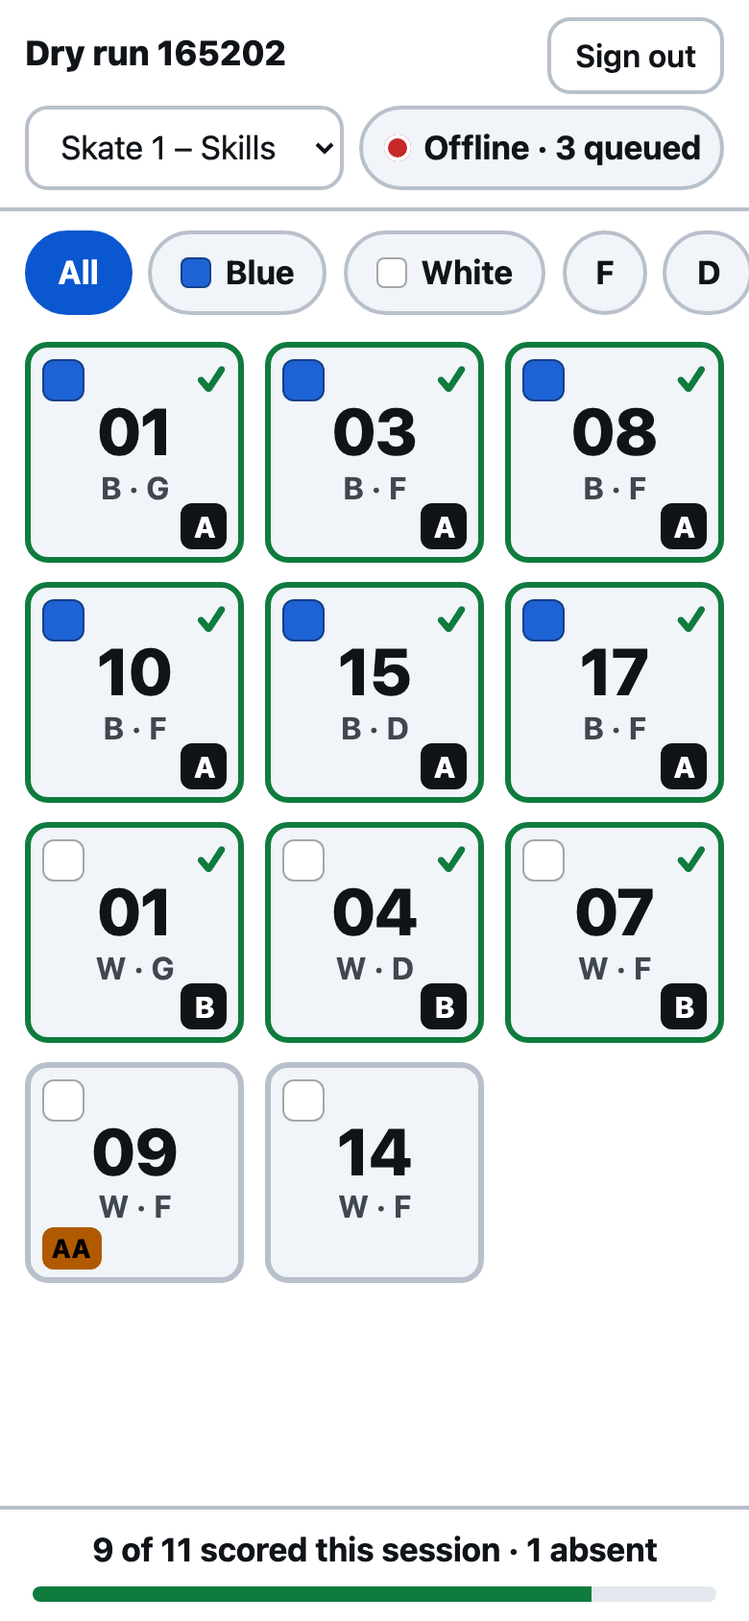
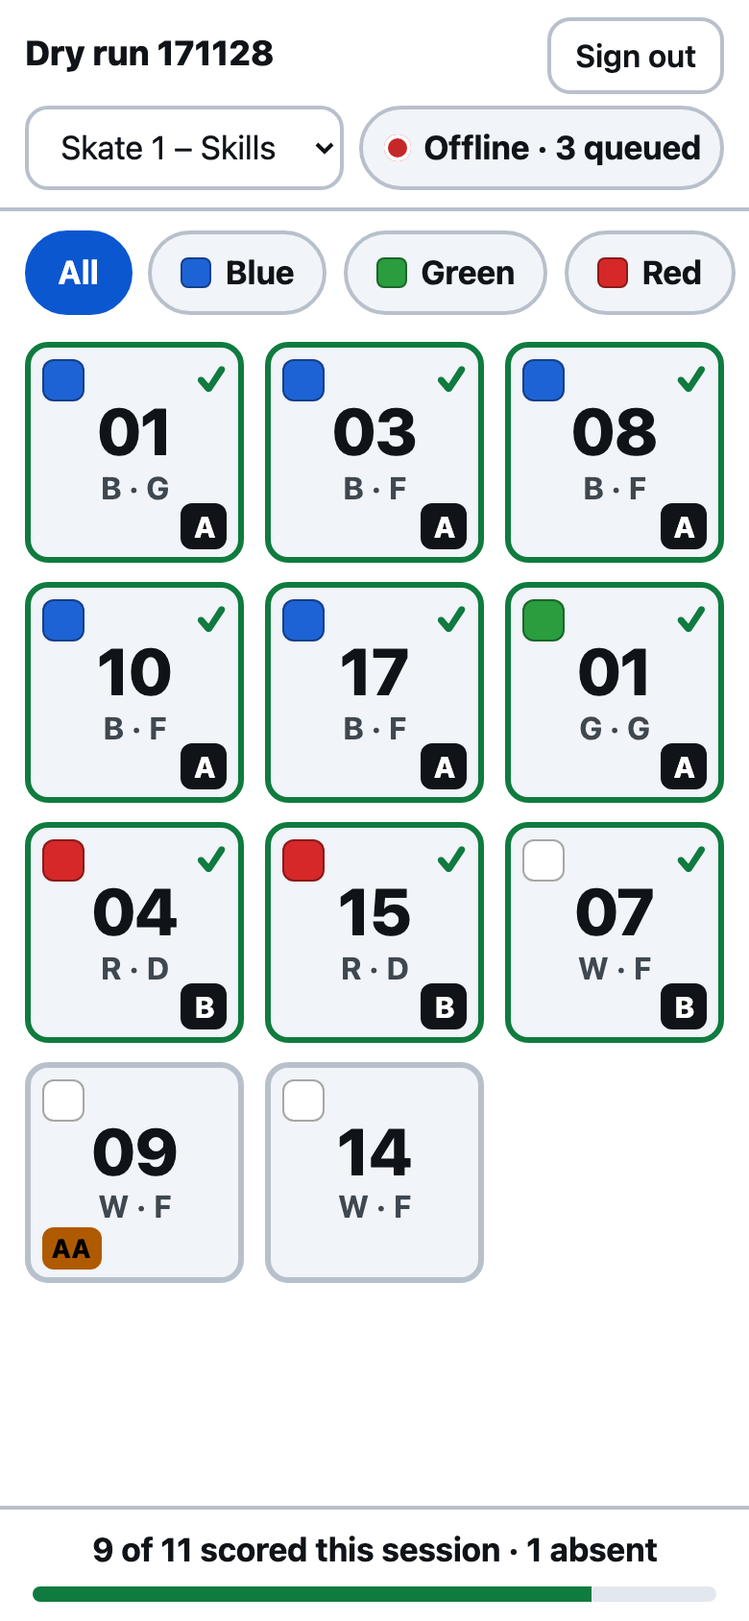
Per-player jersey colours per session
- Session.colours ({ playerNumber: colour }) with setSessionColours (whole-map
  replace, validated keys/values); overrides win over the session's
  primary/secondary default in wornColour()
- Attendance section becomes Attendance & jerseys: colour dropdown per player,
  bulk set by position or everyone, Reset to default, duplicate-code warning,
  summary shows how many colours are set
- Dry run: defence set to Red and one goalie to Green in skills; evaluator grid
  and filter chips follow; 52 unit tests; resolver validated on APPSYNC_JS

diff --git a/web/js/admin.js b/web/js/admin.js
@@ -1,7 +1,7 @@
 // Convenor dashboard: setup, rankings, per-evaluator view, CSV export, close.
 // Everything here is by player number only. There is no name field anywhere and no place to type one.
 import { requireAuth, signOut } from "./auth.js";
-import { gql, fetchAllEvaluations, registerServiceWorker, Q_CURRENT_TRYOUT_ADMIN, normalizeTryout, swatchColour, wornCode, isAbsent, AuthError } from "./api.js";
+import { gql, fetchAllEvaluations, registerServiceWorker, Q_CURRENT_TRYOUT_ADMIN, normalizeTryout, swatchColour, wornCode, wornColour, isAbsent, AuthError } from "./api.js";
 import { CRITERIA, TIERS, criteriaFor, weightedScore, NOTES_MAX } from "./criteria.js";
 
 registerServiceWorker();
@@ -184,6 +184,7 @@ function renderSetup() {
     typeSel.addEventListener("change", () => updateSession(s, { type: typeSel.value }));
     sb.append(el("tr", { "data-session": s.id }, el("td", {}, String(i + 1)), el("td", {}, labelIn), el("td", {}, dateIn), el("td", {}, typeSel),
       el("td", {}, el("span", { class: `pill ${clash.length ? "bad" : ""}` }, s.jersey === "secondary" ? "secondary" : "primary"),
+        Object.keys(s.colours || {}).length ? el("span", { class: "small muted", style: "margin-left:.4rem" }, `+${Object.keys(s.colours).length} set per player`) : null,
         clash.length ? el("span", { class: "small error", style: "margin-left:.4rem" }, `duplicate codes: ${clash.join(", ")}`) : null),
       el("td", {}, el("button", { class: "btn sm", type: "button", onclick: () => setJersey(s, s.jersey === "secondary" ? "primary" : "secondary") },
         s.jersey === "secondary" ? "Switch to primary" : "Switch to secondary"))));
@@ -290,10 +291,10 @@ $("sType").addEventListener("change", () => { $("sJersey").value = $("sType").va
 async function updateSession(session, patch, okText) {
   await run(async () => {
     const data = await gql(`mutation($tryoutId: ID!, $sessionId: ID!, $label: String, $date: AWSDate, $type: String, $jersey: String) {
-      updateSession(tryoutId: $tryoutId, sessionId: $sessionId, label: $label, date: $date, type: $type, jersey: $jersey) { id label date type order jersey absent } }`,
+      updateSession(tryoutId: $tryoutId, sessionId: $sessionId, label: $label, date: $date, type: $type, jersey: $jersey) { id label date type order jersey absent colours } }`,
       { tryoutId: state.tryout.id, sessionId: session.id, label: patch.label ?? null, date: patch.date ?? null, type: patch.type ?? null, jersey: patch.jersey ?? null });
     Object.assign(session, data.updateSession);
-    normalizeTryout(state.tryout);
+    normalizeTryout(state.tryout); // also parses the colours map
     renderAll();
   }, okText || `${session.label} updated${patch.date ? ` · now on ${patch.date}` : ""}.`);
 }
@@ -461,21 +462,66 @@ function renderAttendance() {
   state.attendSessionId = sel.value || null;
   const session = t.sessions.find((s) => s.id === state.attendSessionId) || null;
   const grid = $("attendGrid"); grid.innerHTML = "";
-  if (!session) { $("aSummary").textContent = "Add a session first."; return; }
+  $("bulkBar").hidden = !session;
+  if (!session) { $("aSummary").textContent = "Add a session first."; $("aClash").hidden = true; return; }
+  fillColourSelect($("bulkColour"), { otherInput: $("bulkColourOther") });
   const players = t.players.filter((p) => p.active);
   let absent = 0;
+  const overrides = Object.keys(session.colours || {}).length;
   for (const p of players) {
     const away = isAbsent(session, p);
     if (away) absent += 1;
     const box = el("input", { type: "checkbox", "aria-label": `${p.playerNumber} present` });
     box.checked = !away;
     box.addEventListener("change", () => setAttendance(session, p, box.checked));
+    // Per-player jersey colour for THIS session. Saves the whole map on change.
+    const cSel = el("select", { class: "colour-select", "aria-label": `Jersey colour for ${p.playerNumber} in ${session.label}` });
+    const cOther = el("input", { type: "text", maxlength: "20", placeholder: "New colour", hidden: true, "aria-label": `New jersey colour for ${p.playerNumber}` });
+    fillColourSelect(cSel, { value: wornColour(session, p) });
+    cSel.addEventListener("change", () => {
+      if (cSel.value === OTHER) { cOther.hidden = false; cOther.focus(); return; }
+      setSessionColours(session, { ...(session.colours || {}), [p.playerNumber]: cSel.value });
+    });
+    const commitOther = () => { const v = cOther.value.trim(); if (v) setSessionColours(session, { ...(session.colours || {}), [p.playerNumber]: v }); };
+    cOther.addEventListener("change", commitOther);
+    cOther.addEventListener("keydown", (ev) => { if (ev.key === "Enter") { ev.preventDefault(); commitOther(); } });
     grid.append(el("label", { class: away ? "absent" : "", "data-attend": p.playerNumber }, box,
-      el("span", { class: "swatch", style: `background:${swatchColour(p.colour)}` }), wornCode(session, p), p.tag ? el("span", { class: "tagpill" }, p.tag) : null));
+      el("span", { class: "swatch", style: `background:${swatchColour(wornColour(session, p))}` }),
+      el("span", { class: "code" }, wornCode(session, p)),
+      el("span", { class: "muted small" }, `${p.position}${p.playerNumber !== wornCode(session, p) ? ` · ${p.playerNumber}` : ""}`),
+      p.tag ? el("span", { class: "tagpill" }, p.tag) : null, cSel, cOther));
   }
-  $("aSummary").textContent = `${players.length - absent} present · ${absent} absent`;
+  $("aSummary").textContent = `${players.length - absent} present · ${absent} absent · ${overrides ? `${overrides} colour${overrides === 1 ? "" : "s"} set for this session` : `default ${session.jersey} jerseys`}`;
+  const clash = jerseyClashes(session);
+  $("aClash").hidden = !clash.length;
+  $("aClash").textContent = clash.length ? `Two players would show as the same code: ${clash.join(", ")}. Give one of them a different colour.` : "";
 }
 $("aSession").addEventListener("change", (ev) => { state.attendSessionId = ev.target.value; renderAttendance(); });
+
+$("bulkApply").addEventListener("click", () => {
+  const session = state.tryout?.sessions.find((s) => s.id === state.attendSessionId);
+  if (!session) return;
+  const colour = colourValue($("bulkColour"), $("bulkColourOther"));
+  if (!colour) { msg("Choose a colour first.", "bad"); return; }
+  const who = $("bulkWho").value;
+  const next = { ...(session.colours || {}) };
+  for (const p of state.tryout.players.filter((x) => x.active && (who === "all" || x.position === who))) next[p.playerNumber] = colour;
+  setSessionColours(session, next, `${who === "all" ? "Everyone" : who === "F" ? "Forwards" : who === "D" ? "Defence" : "Goalies"} set to ${colour} for ${session.label}.`);
+});
+$("bulkReset").addEventListener("click", () => {
+  const session = state.tryout?.sessions.find((s) => s.id === state.attendSessionId);
+  if (session) setSessionColours(session, {}, `${session.label} back to default ${session.jersey} jerseys.`);
+});
+
+async function setSessionColours(session, colours, okText) {
+  await run(async () => {
+    const data = await gql(`mutation($tryoutId: ID!, $sessionId: ID!, $colours: AWSJSON!) {
+      setSessionColours(tryoutId: $tryoutId, sessionId: $sessionId, colours: $colours) { id colours } }`,
+      { tryoutId: state.tryout.id, sessionId: session.id, colours: JSON.stringify(colours) });
+    session.colours = JSON.parse(data.setSessionColours.colours || "{}");
+    renderAll();
+  }, okText || `Jersey colours updated for ${session.label}.`);
+}
 
 async function setAttendance(session, p, present) {
   await run(async () => {

diff --git a/tests/e2e/dry-run.js b/tests/e2e/dry-run.js
@@ -157,10 +157,21 @@ try {
   await admin.locator('#playersBody tr[data-player="W-09"] input[type=checkbox]').check();
   await admin.locator("#msg", { hasText: "W-09 updated" }).waitFor({ timeout: 20000 });
   await admin.selectOption("#aSession", { index: 0 });
-  await admin.locator('#attendGrid label[data-attend="W-12"] input').uncheck();
+  await admin.locator('#attendGrid label[data-attend="W-12"] input[type=checkbox]').uncheck();
   await admin.locator("#msg", { hasText: "W-12 marked absent" }).waitFor({ timeout: 20000 });
   assert(/1 absent/.test(await admin.locator("#aSummary").textContent()), "attendance summary shows 1 absent");
   log("W-09 tagged AA; W-12 marked absent for session 1");
+
+  // Skills night: all defence in Red, forwards stay White; one goalie set individually to Green
+  await admin.selectOption("#bulkWho", "D");
+  await admin.selectOption("#bulkColour", "Red");
+  await admin.click("#bulkApply");
+  await admin.locator("#msg", { hasText: "Defence set to Red" }).waitFor({ timeout: 20000 });
+  await admin.locator('#attendGrid label[data-attend="W-01"] select').selectOption("Green");
+  await admin.locator("#msg", { hasText: "Jersey colours updated" }).waitFor({ timeout: 20000 });
+  assert(/4 colours set/.test(await admin.locator("#aSummary").textContent()), "summary counts per-player colours (3 D + 1 G; B-03 is a forward now)");
+  assert(await admin.locator("#aClash").isHidden(), "no code clashes");
+  log("session 1 jerseys: defence Red, W-01 Green, forwards default White");
 
   // ------------------------------------------------------------------ Evaluator: score 6 online
   await ev.reload();
@@ -174,6 +185,11 @@ try {
   assert((await ev.locator(".player").count()) === 11, "evaluator should see 11 players (W-12 absent)");
   assert((await ev.locator('.player[aria-label^="W-12"]').count()) === 0, "absent player hidden in session 1");
   assert((await ev.locator('.player[aria-label^="W-09"] .tag').textContent()) === "AA", "AA badge on the evaluator card");
+  const codes1a = await ev.locator(".player").evaluateAll((els) => els.map((e) => e.getAttribute("aria-label").split(" ")[0]));
+  // W-04 and B-15 are defence -> Red; B-03 became a forward earlier so stays Blue; W-01 set to Green; forwards default White
+  assert(codes1a.includes("R-04") && codes1a.includes("R-15") && codes1a.includes("B-03") && codes1a.includes("G-01") && codes1a.includes("W-07"), `per-session colours reach the evaluator: ${codes1a.join(" ")}`);
+  const chips = await ev.locator("#chips .chip").allTextContents();
+  assert(chips.includes("Red") && chips.includes("Green") && chips.includes("White"), `filter chips follow the session colours: ${chips.join(",")}`);
   assert(/of 11 scored/.test(await ev.locator("#progressText").textContent()) && /1 absent/.test(await ev.locator("#progressText").textContent()), "progress excludes the absent player");
   log("evaluator signed in, sees 11 players, AA badge visible, absent player hidden");
 
@@ -217,7 +233,7 @@ try {
   await ev.selectOption("#sessionSelect", { index: 0 });
   await ev.locator('.player[aria-label^="W-14"]').waitFor({ timeout: 10000 });
   const codes1 = await ev.locator(".player").evaluateAll((els) => els.map((e) => e.getAttribute("aria-label").split(" ")[0]));
-  assert(codes1.includes("W-14") && codes1.includes("B-17"), "session 1 shows primary codes again");
+  assert(codes1.includes("W-14") && codes1.includes("R-04"), "session 1 shows its own colours again");
   log("secondary jersey colours shown in the scrimmage session, primary in skills");
 
   // ------------------------------------------------------------------ Evaluator: offline, 3 more

diff --git a/tests/resolvers.test.js b/tests/resolvers.test.js
@@ -232,6 +232,7 @@ describe("admin-only resolvers re-check the admin group (defence in depth)", () 
       ["Mutation.setPlayerActive.js", { tryoutId: TRYOUT, playerNumber: "W-14", active: false }],
       ["Mutation.updatePlayer.js", { tryoutId: TRYOUT, playerNumber: "W-14", position: "D" }],
       ["Mutation.setAttendance.js", { tryoutId: TRYOUT, sessionId: SESSION, playerNumber: "W-14", present: false }],
+      ["Mutation.setSessionColours.js", { tryoutId: TRYOUT, sessionId: SESSION, colours: { "W-14": "Red" } }],
       ["Mutation.deletePlayer.1.checkNoScores.js", { tryoutId: TRYOUT, playerNumber: "W-14" }],
       ["Mutation.deletePlayer.2.delete.js", { tryoutId: TRYOUT, playerNumber: "W-14" }],
       ["Mutation.setEvaluatorAccess.js", { tryoutId: TRYOUT, evaluatorId: EVALUATOR_SUB, enabled: true }],
@@ -471,6 +472,23 @@ describe("Mutation.createTryout / addSession / setPlayerActive / closeTryout", (
     assert.deepEqual(out.absent, ["W-14"]);
     const none = mod.response(ctx({ result: { sessionId: SESSION, label: "L", date: "2026-09-20", type: "skills", order: 1 } }));
     assert.deepEqual(none.absent, [], "absent defaults to an empty list");
+  });
+
+  test("setSessionColours replaces the per-player colour map after validating keys and values", async () => {
+    const mod = await loadResolver("Mutation.setSessionColours.js");
+    const req = mod.request(ctx({ identity: adminIdentity(), args: { tryoutId: TRYOUT, sessionId: SESSION, colours: { "W-14": "red", "B-07": "White", "W-04": "" } } }));
+    assert.equal(req.operation, "UpdateItem");
+    assert.equal(req.update.expression, "SET #colours = :colours");
+    assert.deepEqual(fromMapValues(req.update.expressionValues), { ":colours": { "W-14": "Red", "B-07": "White" } });
+    const str = mod.request(ctx({ identity: adminIdentity(), args: { tryoutId: TRYOUT, sessionId: SESSION, colours: JSON.stringify({ "W-14": "Green" }) } }));
+    assert.deepEqual(fromMapValues(str.update.expressionValues), { ":colours": { "W-14": "Green" } }, "AWSJSON string form is accepted");
+    const empty = mod.request(ctx({ identity: adminIdentity(), args: { tryoutId: TRYOUT, sessionId: SESSION, colours: {} } }));
+    assert.deepEqual(fromMapValues(empty.update.expressionValues), { ":colours": {} }, "empty map clears overrides");
+    throwsType(() => mod.request(ctx({ identity: adminIdentity(), args: { tryoutId: TRYOUT, sessionId: SESSION, colours: { "Smith-14": "Red" } } })), "BadRequest", /playerNumber/);
+    throwsType(() => mod.request(ctx({ identity: adminIdentity(), args: { tryoutId: TRYOUT, sessionId: SESSION, colours: { "W-14": "R3d" } } })), "BadRequest", /colour/);
+    const out = mod.response(ctx({ result: { sessionId: SESSION, label: "L", date: "2026-09-20", type: "skills", order: 1, colours: { "W-14": "Red" } } }));
+    assert.deepEqual(out.colours, { "W-14": "Red" });
+    assert.deepEqual(mod.response(ctx({ result: { sessionId: SESSION, label: "L", date: "2026-09-20", type: "skills", order: 1 } })).colours, {}, "defaults to empty map");
   });
 
   test("player tag: short, upper-cased, never free text long enough for a name", async () => {

diff --git a/web/js/api.js b/web/js/api.js
@@ -236,14 +236,14 @@ export function registerServiceWorker() {
 // ----------------------------------------------------------------------------- Queries used by both screens
 export const Q_CURRENT_TRYOUT = `query { currentTryout {
   id name season status createdAt canEvaluate
-  sessions { id label date type order jersey absent }
+  sessions { id label date type order jersey absent colours }
   players { playerNumber colour colour2 number position active tag }
 } }`;
 
 /** Admin variant: also lists who may score this tryout (admin-only field). */
 export const Q_CURRENT_TRYOUT_ADMIN = `query { currentTryout {
   id name season status createdAt canEvaluate
-  sessions { id label date type order jersey absent }
+  sessions { id label date type order jersey absent colours }
   players { playerNumber colour colour2 number position active tag }
   evaluatorAccess { evaluatorId enabled updatedAt }
 } }`;
@@ -256,6 +256,7 @@ export const Q_MY_EVALS = `query My($tryoutId: ID!, $sessionId: ID!) {
 export function normalizeTryout(t) {
   if (!t) return t;
   t.sessions = [...(t.sessions || [])].sort((a, b) => (a.date < b.date ? -1 : a.date > b.date ? 1 : a.order - b.order));
+  for (const s of t.sessions) s.colours = parseScores(s.colours); // AWSJSON -> object
   t.players = [...(t.players || [])].sort((a, b) => (a.colour < b.colour ? -1 : a.colour > b.colour ? 1 : a.number - b.number));
   return t;
 }
@@ -289,8 +290,14 @@ export function isAbsent(session, player) {
   return !!session && Array.isArray(session.absent) && session.absent.includes(player.playerNumber);
 }
 
-/** Jersey colour a player wears in a session: the secondary colour when the session says so and one is set. */
+/**
+ * Jersey colour a player wears in a session: the per-session assignment when the convenor set one
+ * (skills: forwards one colour, defence another; scrimmage: team colours), otherwise the session's
+ * default jersey set (primary or secondary).
+ */
 export function wornColour(session, player) {
+  const override = session?.colours && session.colours[player.playerNumber];
+  if (override) return override;
   return session?.jersey === "secondary" && player.colour2 ? player.colour2 : player.colour;
 }
 

diff --git a/scripts/dev-server.js b/scripts/dev-server.js
@@ -141,6 +141,7 @@ const FIELDS = {
   setPlayerActive: [await R("Mutation.setPlayerActive.js")],
   updatePlayer: [await R("Mutation.updatePlayer.js")],
   setAttendance: [await R("Mutation.setAttendance.js")],
+  setSessionColours: [await R("Mutation.setSessionColours.js")],
   deletePlayer: [await R("Mutation.deletePlayer.1.checkNoScores.js"), await R("Mutation.deletePlayer.2.delete.js")],
   setEvaluatorAccess: [await R("Mutation.setEvaluatorAccess.js")],
   closeTryout: [await R("Mutation.closeTryout.1.close.js"), await R("Fn.getTryout.js")],
@@ -148,7 +149,7 @@ const FIELDS = {
   deleteEvaluator: [await R("Lambda.adminOps.js")],
   exportUrl: [await R("Lambda.adminOps.js")],
 };
-const ADMIN_FIELDS = new Set(["allEvaluations", "evaluators", "createTryout", "addSession", "upsertPlayers", "updateSession", "setPlayerActive", "updatePlayer", "deletePlayer", "setAttendance", "setEvaluatorAccess", "createEvaluator", "deleteEvaluator", "closeTryout", "exportUrl"]);
+const ADMIN_FIELDS = new Set(["allEvaluations", "evaluators", "createTryout", "addSession", "upsertPlayers", "updateSession", "setPlayerActive", "updatePlayer", "deletePlayer", "setAttendance", "setSessionColours", "setEvaluatorAccess", "createEvaluator", "deleteEvaluator", "closeTryout", "exportUrl"]);
 
 async function runField(field, args, identity) {
   const ctx = { args, arguments: args, identity, stash: {}, prev: { result: null }, result: null, error: null, info: { fieldName: field, parentTypeName: "" } };
@@ -167,7 +168,7 @@ function shape(v) {
   if (Array.isArray(v)) return v.map(shape);
   if (v && typeof v === "object") {
     const o = {};
-    for (const [key, val] of Object.entries(v)) o[key] = key === "scores" && val && typeof val === "object" ? JSON.stringify(val) : shape(val);
+    for (const [key, val] of Object.entries(v)) o[key] = (key === "scores" || key === "colours") && val && typeof val === "object" ? JSON.stringify(val) : shape(val);
     return o;
   }
   return v;

diff --git a/web/admin.html b/web/admin.html
@@ -92,12 +92,19 @@
     </div>
 
     <div class="card" id="attendanceCard">
-      <h2>Attendance</h2>
-      <p class="small muted">Untick anyone who is not on the ice for a session (injured players still being considered for AA, a player away sick). They disappear from the evaluators' screens for that session only, cannot be scored for it, and their rankings are based on the sessions they did attend.</p>
+      <h2>Attendance &amp; jerseys</h2>
+      <p class="small muted">For each ice time: untick anyone who is not on the ice, and set the jersey colour each player is wearing. Absent players disappear from the evaluators' screens for that session only and cannot be scored for it. Colours set here are what evaluators see for that session; the number never changes.</p>
       <div class="toolbar">
         <label>Session <select id="aSession"></select></label>
         <span id="aSummary" class="muted small"></span>
       </div>
+      <div class="toolbar" id="bulkBar">
+        <label>Set <select id="bulkWho"><option value="F">all forwards</option><option value="D">all defence</option><option value="G">all goalies</option><option value="all">everyone</option></select></label>
+        <label>to <select id="bulkColour" class="colour-select"></select><input id="bulkColourOther" type="text" maxlength="20" placeholder="New colour" hidden></label>
+        <button id="bulkApply" class="btn sm primary" type="button">Apply</button>
+        <button id="bulkReset" class="btn sm" type="button" title="Remove every per-player colour for this session and go back to the session's default jersey set">Reset to default jerseys</button>
+      </div>
+      <p id="aClash" class="error small" hidden></p>
       <div id="attendGrid" class="attend"></div>
     </div>
 

diff --git a/infra/resolvers/shared.js b/infra/resolvers/shared.js
@@ -85,6 +85,22 @@ export function optionalColour(value) {
   return requireColour(value);
 }
 
+/** { playerNumber: colour } map for a session. Keys must be player codes, values colour names. Max 200. */
+export function sanitizeColourMap(raw) {
+  let map = raw;
+  if (typeof map === "string") map = JSON.parse(map);
+  if (!map || typeof map !== "object") util.error("colours must be a JSON object", "BadRequest");
+  const keys = Object.keys(map);
+  if (keys.length > 200) util.error("Too many players", "BadRequest");
+  const clean = {};
+  for (const k of keys) {
+    requirePlayerNumber(k);
+    const v = map[k];
+    if (v !== null && v !== undefined && v !== "") clean[k] = requireColour(v); // blank = no override
+  }
+  return clean;
+}
+
 /** Optional short tag such as "AA". Empty clears it. Letters, digits, space, + and - only: never a name. */
 export function optionalTag(value) {
   if (value === null || value === undefined) return null;
@@ -174,7 +190,7 @@ export function toPlayer(item) {
 export function toSession(item) {
   return {
     id: item.sessionId, label: item.label, date: item.date, type: item.type, order: item.order,
-    jersey: item.jersey || "primary", absent: item.absent || [],
+    jersey: item.jersey || "primary", absent: item.absent || [], colours: item.colours || {},
   };
 }
 

diff --git a/web/css/app.css b/web/css/app.css
@@ -190,7 +190,11 @@ tr.inactive td { opacity: .5; }
 .toolbar select { width: auto; min-width: 140px; }
 input[type=checkbox] { width: 24px; height: 24px; }
 .attend { display: grid; grid-template-columns: repeat(auto-fill, minmax(150px, 1fr)); gap: .5rem; }
-.attend label { display: flex; align-items: center; gap: .5rem; min-height: var(--tap); padding: 0 .6rem; border: 2px solid var(--border); border-radius: var(--radius); background: var(--surface); font-weight: 700; }
+.attend { grid-template-columns: repeat(auto-fill, minmax(260px, 1fr)); }
+.attend label { display: flex; align-items: center; gap: .5rem; min-height: var(--tap); padding: .3rem .6rem; border: 2px solid var(--border); border-radius: var(--radius); background: var(--surface); font-weight: 700; flex-wrap: wrap; }
+.attend label .code { min-width: 3.4em; }
+.attend label select { min-height: 40px; width: auto; min-width: 110px; padding: .3rem .5rem; margin-left: auto; font-weight: 600; }
+.attend label input[type=text] { min-height: 40px; width: 120px; padding: .3rem .5rem; }
 .attend label.absent { opacity: .55; text-decoration: line-through; }
 td select.sm, td input.sm { min-height: 40px; width: auto; min-width: 70px; padding: .3rem .5rem; }
 td .colour-select { min-width: 120px; }

diff --git a/infra/resolvers/Mutation.setSessionColours.js b/infra/resolvers/Mutation.setSessionColours.js
@@ -1,0 +1,26 @@
+import { util } from "@aws-appsync/utils";
+import { tryoutPK, sessionSK, requireAdmin, requireId, sanitizeColourMap, toSession, failOnError } from "./shared.js";
+
+// Replace the per-player jersey colours for one session (skills: forwards one colour, defence another;
+// scrimmage: team colours regardless of position). Players not in the map fall back to the session's jersey default.
+export function request(ctx) {
+  requireAdmin(ctx);
+  const tryoutId = requireId(ctx.args.tryoutId, "tryoutId");
+  const sessionId = requireId(ctx.args.sessionId, "sessionId");
+  const colours = sanitizeColourMap(ctx.args.colours);
+  return {
+    operation: "UpdateItem",
+    key: util.dynamodb.toMapValues({ PK: tryoutPK(tryoutId), SK: sessionSK(sessionId) }),
+    update: {
+      expression: "SET #colours = :colours",
+      expressionNames: { "#colours": "colours" },
+      expressionValues: util.dynamodb.toMapValues({ ":colours": colours }),
+    },
+    condition: { expression: "attribute_exists(PK)" },
+  };
+}
+
+export function response(ctx) {
+  failOnError(ctx);
+  return toSession(ctx.result);
+}

diff --git a/infra/lib/tryout-stack.js b/infra/lib/tryout-stack.js
@@ -199,6 +199,7 @@ export class TryoutStack extends cdk.Stack {
     unit("Mutation", "setPlayerActive", tableDs, "Mutation.setPlayerActive.js");
     unit("Mutation", "updatePlayer", tableDs, "Mutation.updatePlayer.js");
     unit("Mutation", "setAttendance", tableDs, "Mutation.setAttendance.js");
+    unit("Mutation", "setSessionColours", tableDs, "Mutation.setSessionColours.js");
     pipeline("Mutation", "deletePlayer", [fn("CheckNoScores", tableDs, "Mutation.deletePlayer.1.checkNoScores.js"), fn("DeletePlayer", tableDs, "Mutation.deletePlayer.2.delete.js")]);
     unit("Mutation", "setEvaluatorAccess", tableDs, "Mutation.setEvaluatorAccess.js");
     pipeline("Mutation", "closeTryout", [fn("CloseTryout", tableDs, "Mutation.closeTryout.1.close.js"), getTryoutFn]);

diff --git a/docs/RUNNING-A-TRYOUT.md b/docs/RUNNING-A-TRYOUT.md
@@ -68,7 +68,16 @@ only some of your sessions. Tick **AA** on their row in the Players table. Evalu
 player's card and on the scoring sheet, the same as the note on the paper sheets today, and the Rankings tab has an
 *AA only* filter so you can look at them as a group.
 
-**Attendance.** Under *Attendance*, pick the session and untick anyone who is not on the ice. An absent player
+**Jerseys for each ice time.** Under *Attendance & jerseys*, pick the session and set what each player is
+actually wearing. For a skills night use the bulk row: *all forwards → White*, Apply, then *all defence → Red*,
+Apply. For a scrimmage set *everyone* to one colour and then switch the other team's players individually, or
+apply by position first and adjust. Any player can be changed on their own row, and *Other…* adds a colour that
+is not in the list. *Reset to default jerseys* removes every per-player setting for that session and goes back to
+the session's primary/secondary default. Evaluators see exactly these colours for that session; the number never
+changes, and the code under the number reminds them which player it is. The section warns you if two players would
+show as the same code.
+
+**Attendance.** In the same section, untick anyone who is not on the ice. An absent player
 disappears from every evaluator's screen for that session only, cannot be scored for it (the app refuses, even if
 someone tries), and does not count in the "scored" total at the bottom of the evaluators' screens. Rankings show a
 *Sessions* column (attended over total) so you can tell "was there twice and scored well" from "was there five

diff --git a/README.md b/README.md
@@ -236,6 +236,9 @@ only thing that grows, and log groups expire after 30 days.
   `Tryout.evaluatorAccess`) gates every write, also at the owner's request.
 - Players carry an optional `colour2` and sessions a `jersey` (`primary`/`secondary`) plus an `updateSession`
   mutation, so scrimmages can be played in the second jersey set without changing player identities.
+- Per-session jersey colours: `Session.colours` (`{ playerNumber: colour }`, replaced whole by
+  `setSessionColours`). Overrides win over the session's `jersey` default; the front end resolves the worn colour
+  in one place (`wornColour` in `web/js/api.js`) for the evaluator grid, chips, sheet, admin tables and CSVs.
 - Per-session attendance: `Session.absent` (a DynamoDB string set edited with `setAttendance`). Absent players
   are hidden from the evaluator grid for that session, `upsertEvaluation` rejects scores for them, and rankings
   show sessions attended. Overall is an average over the evaluations received, so a missed skate never counts
